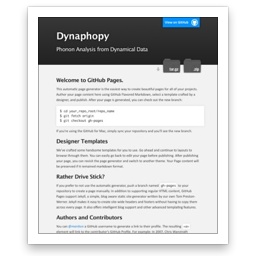
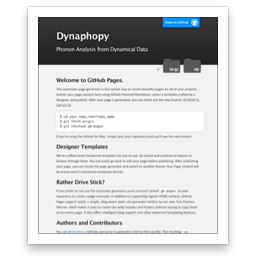
test

Changed region(s): [[0.2188, 0.4062, 0.7812, 0.9375], [0.7188, 0.375, 0.7812, 0.4062]]

diff --git a/index.html b/index.html
@@ -2,6 +2,9 @@
 <html>
 
   <head>
+    <script type="text/javascript"
+            src="http://cdn.mathjax.org/mathjax/latest/MathJax.js?config=TeX-AMS-MML_HTMLorMML">
+    </script>
     <meta charset='utf-8'>
     <meta http-equiv="X-UA-Compatible" content="chrome=1">
     <meta name="description" content="Dynaphopy : Phonon Analysis from Dynamical Data">
@@ -34,7 +37,11 @@
         <h3>
 <a id="welcome-to-github-pages" class="anchor" href="#welcome-to-github-pages" aria-hidden="true"><span class="octicon octicon-link"></span></a>Welcome to GitHub Pages.</h3>
 
-<p>This automatic page generator is the easiest way to create beautiful pages for all of your projects. Author your page content here using GitHub Flavored Markdown, select a template crafted by a designer, and publish. After your page is generated, you can check out the new branch:</p>
+<p>This automatic page generator is the easiest way to create beautiful pages for all of your projects. Author your page content here using GitHub Flavored Markdown, select a template crafted by a designer, and publish. After your page is generated, you can check out the new branch:
+$$
+f({\bf x}, {\bf p})
+$$
+</p>
 
 <pre><code>$ cd your_repo_root/repo_name
 $ git fetch origin
